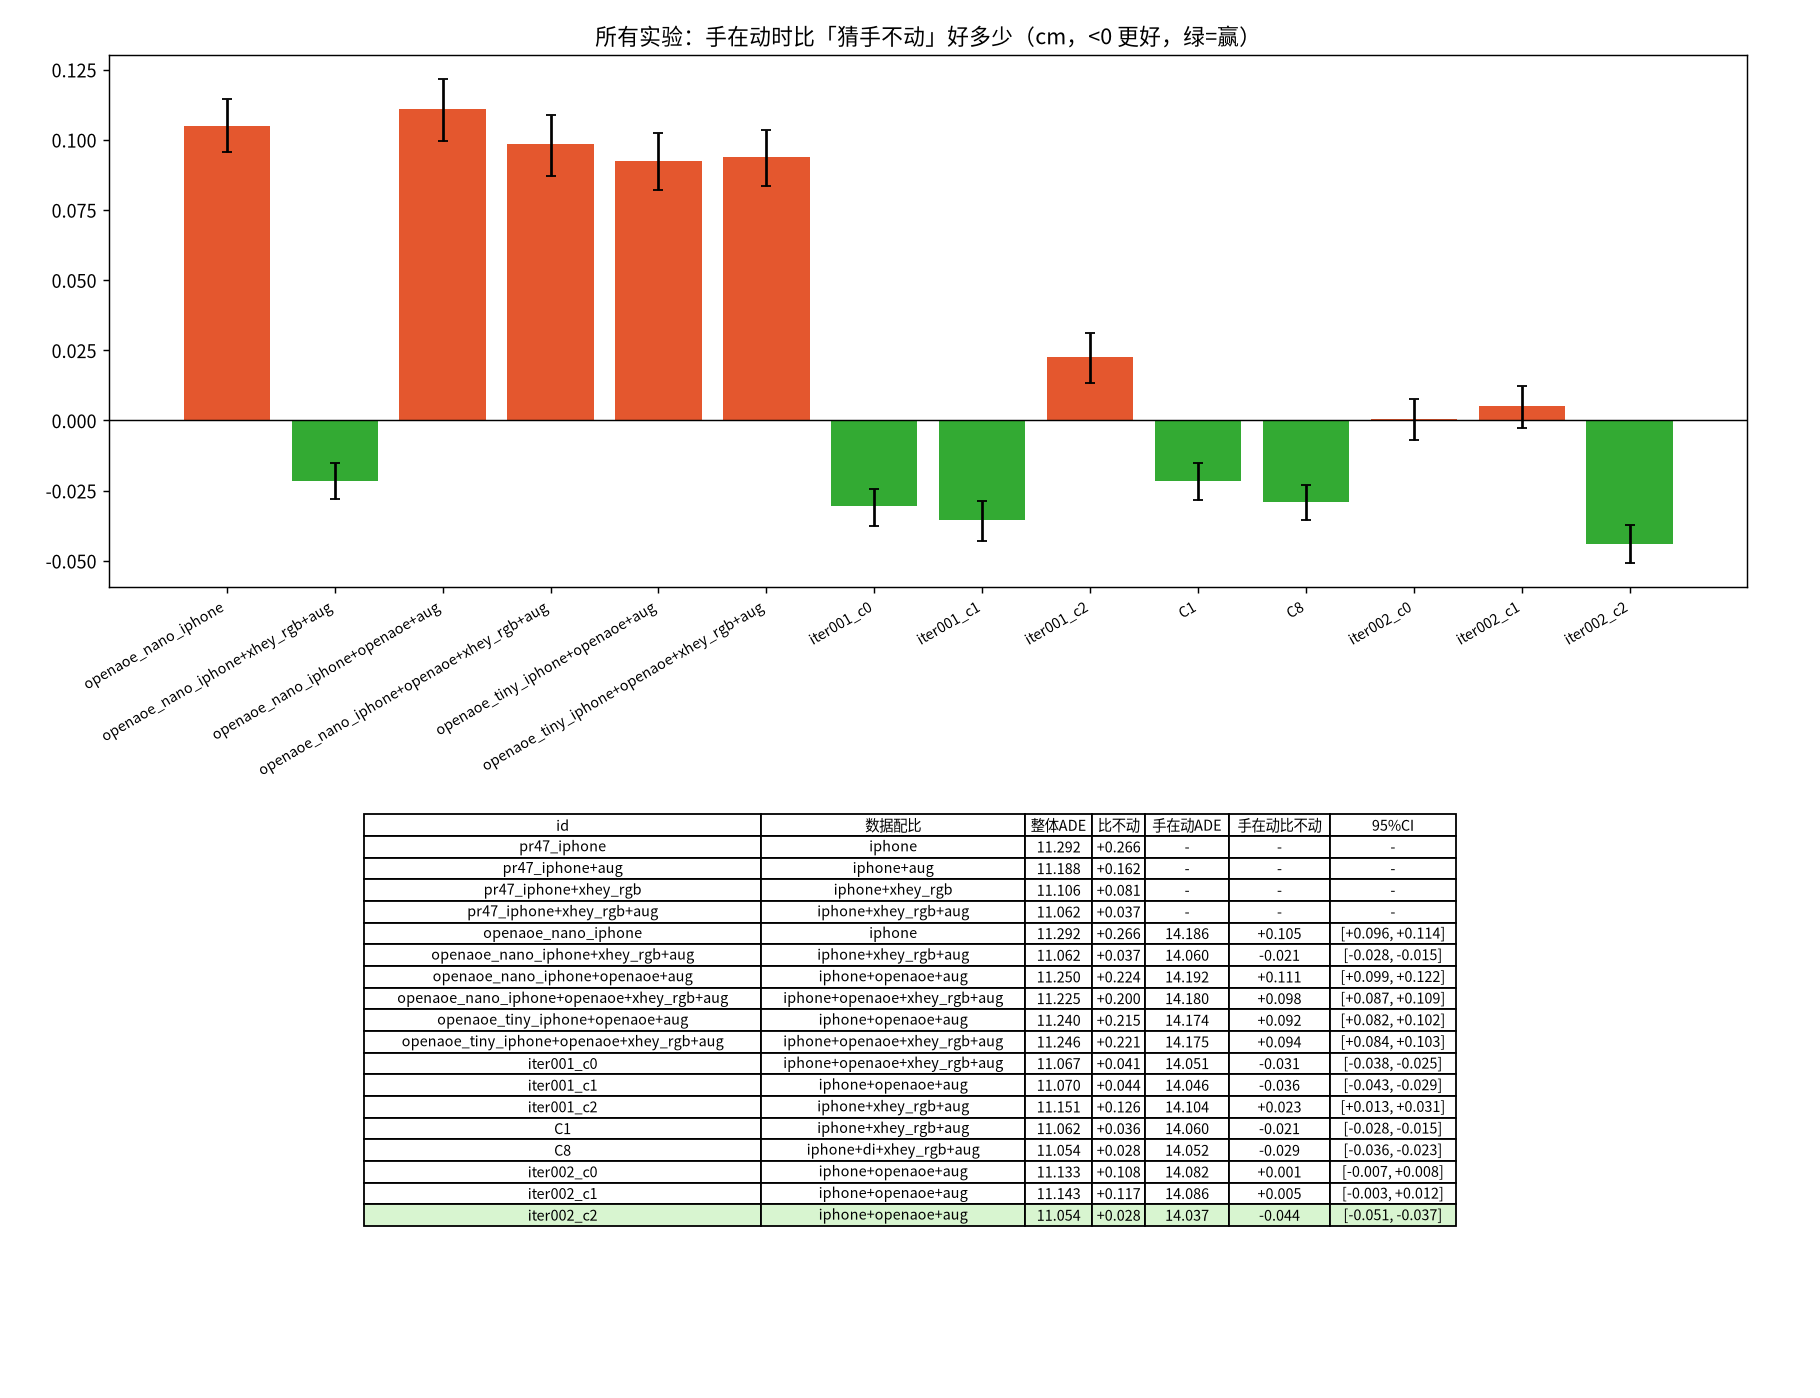
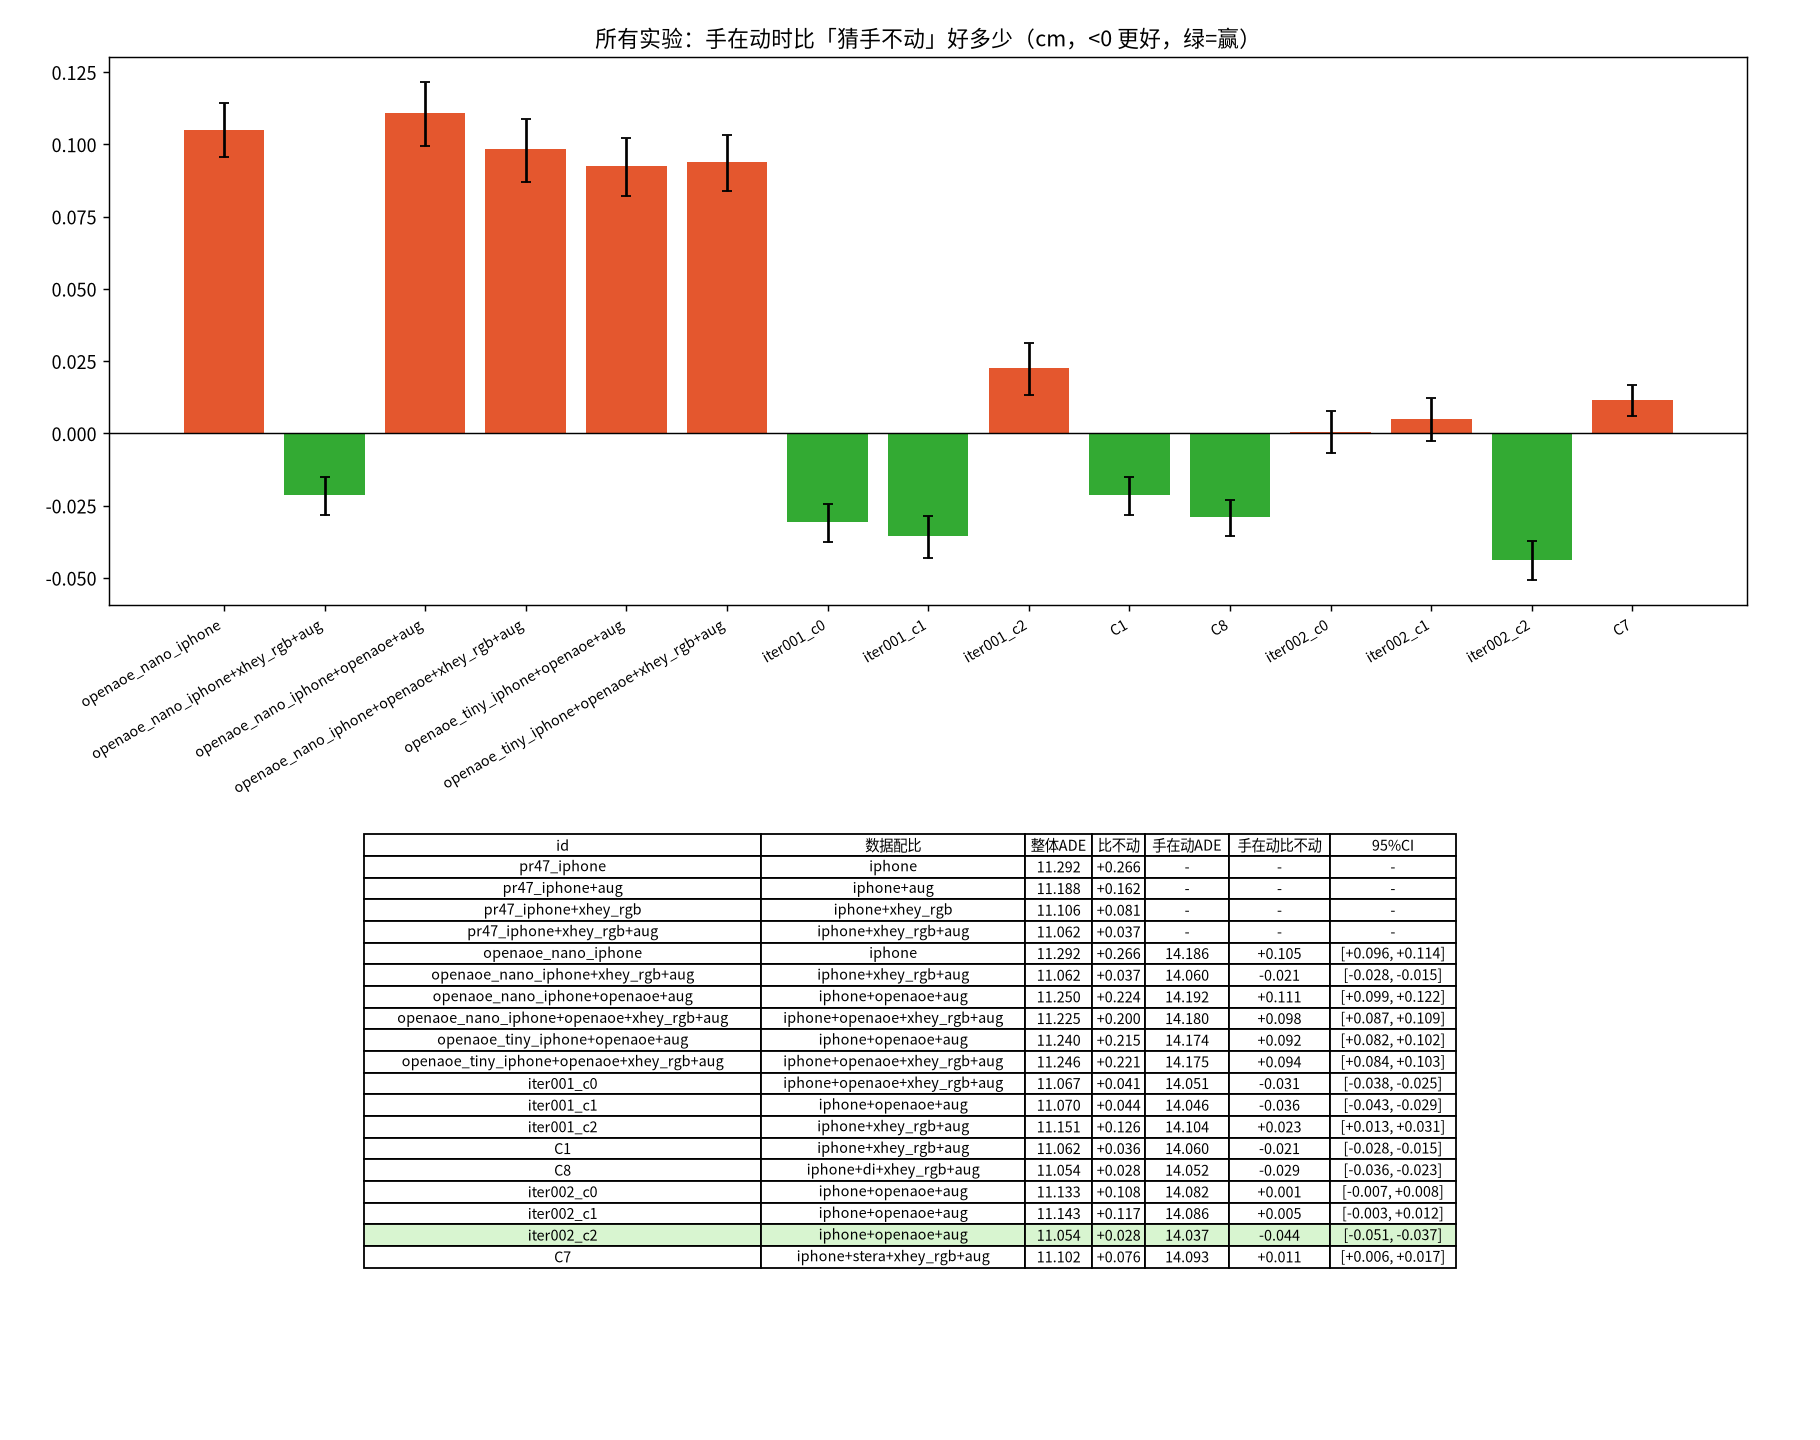
XHEY：入账 C7 Stera 结果并启动 C2
C7（iphone+stera+xhey_rgb+aug）记为 done_worse：整体 ADE 11.1017 cm，手在动 ADE 14.0928 cm。队列下一候选 C2（xhey-rsi-c2-longft）标为 running。

diff --git a/experiments/report/C7/README.md b/experiments/report/C7/README.md
@@ -1,0 +1,5 @@
+# C7
+
+![](ade.png)
+![](per_clip.png)
+![](horizon.png)
